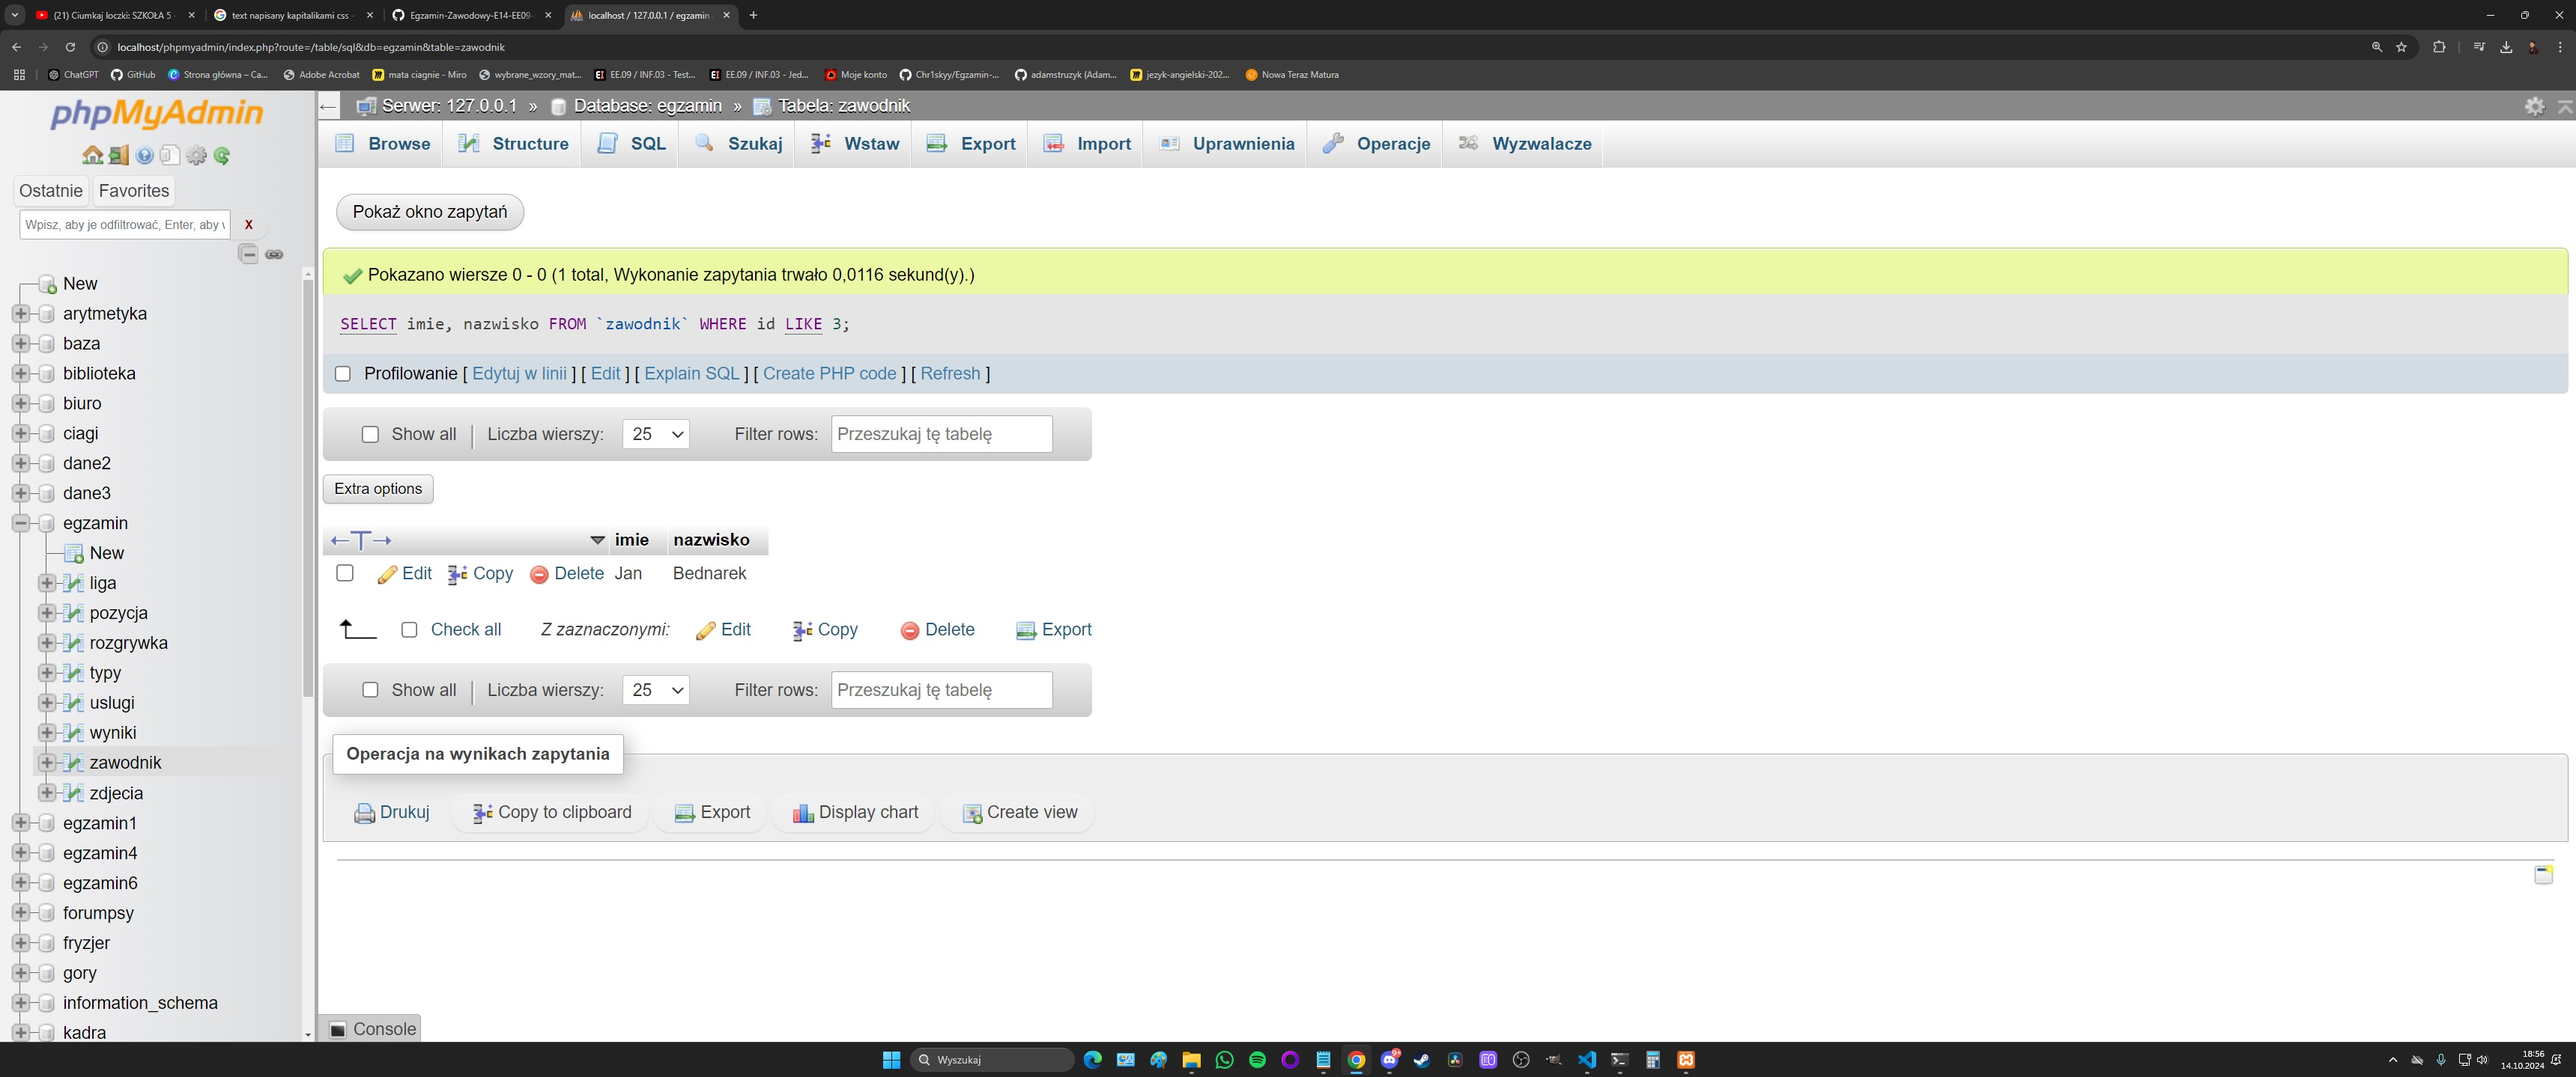
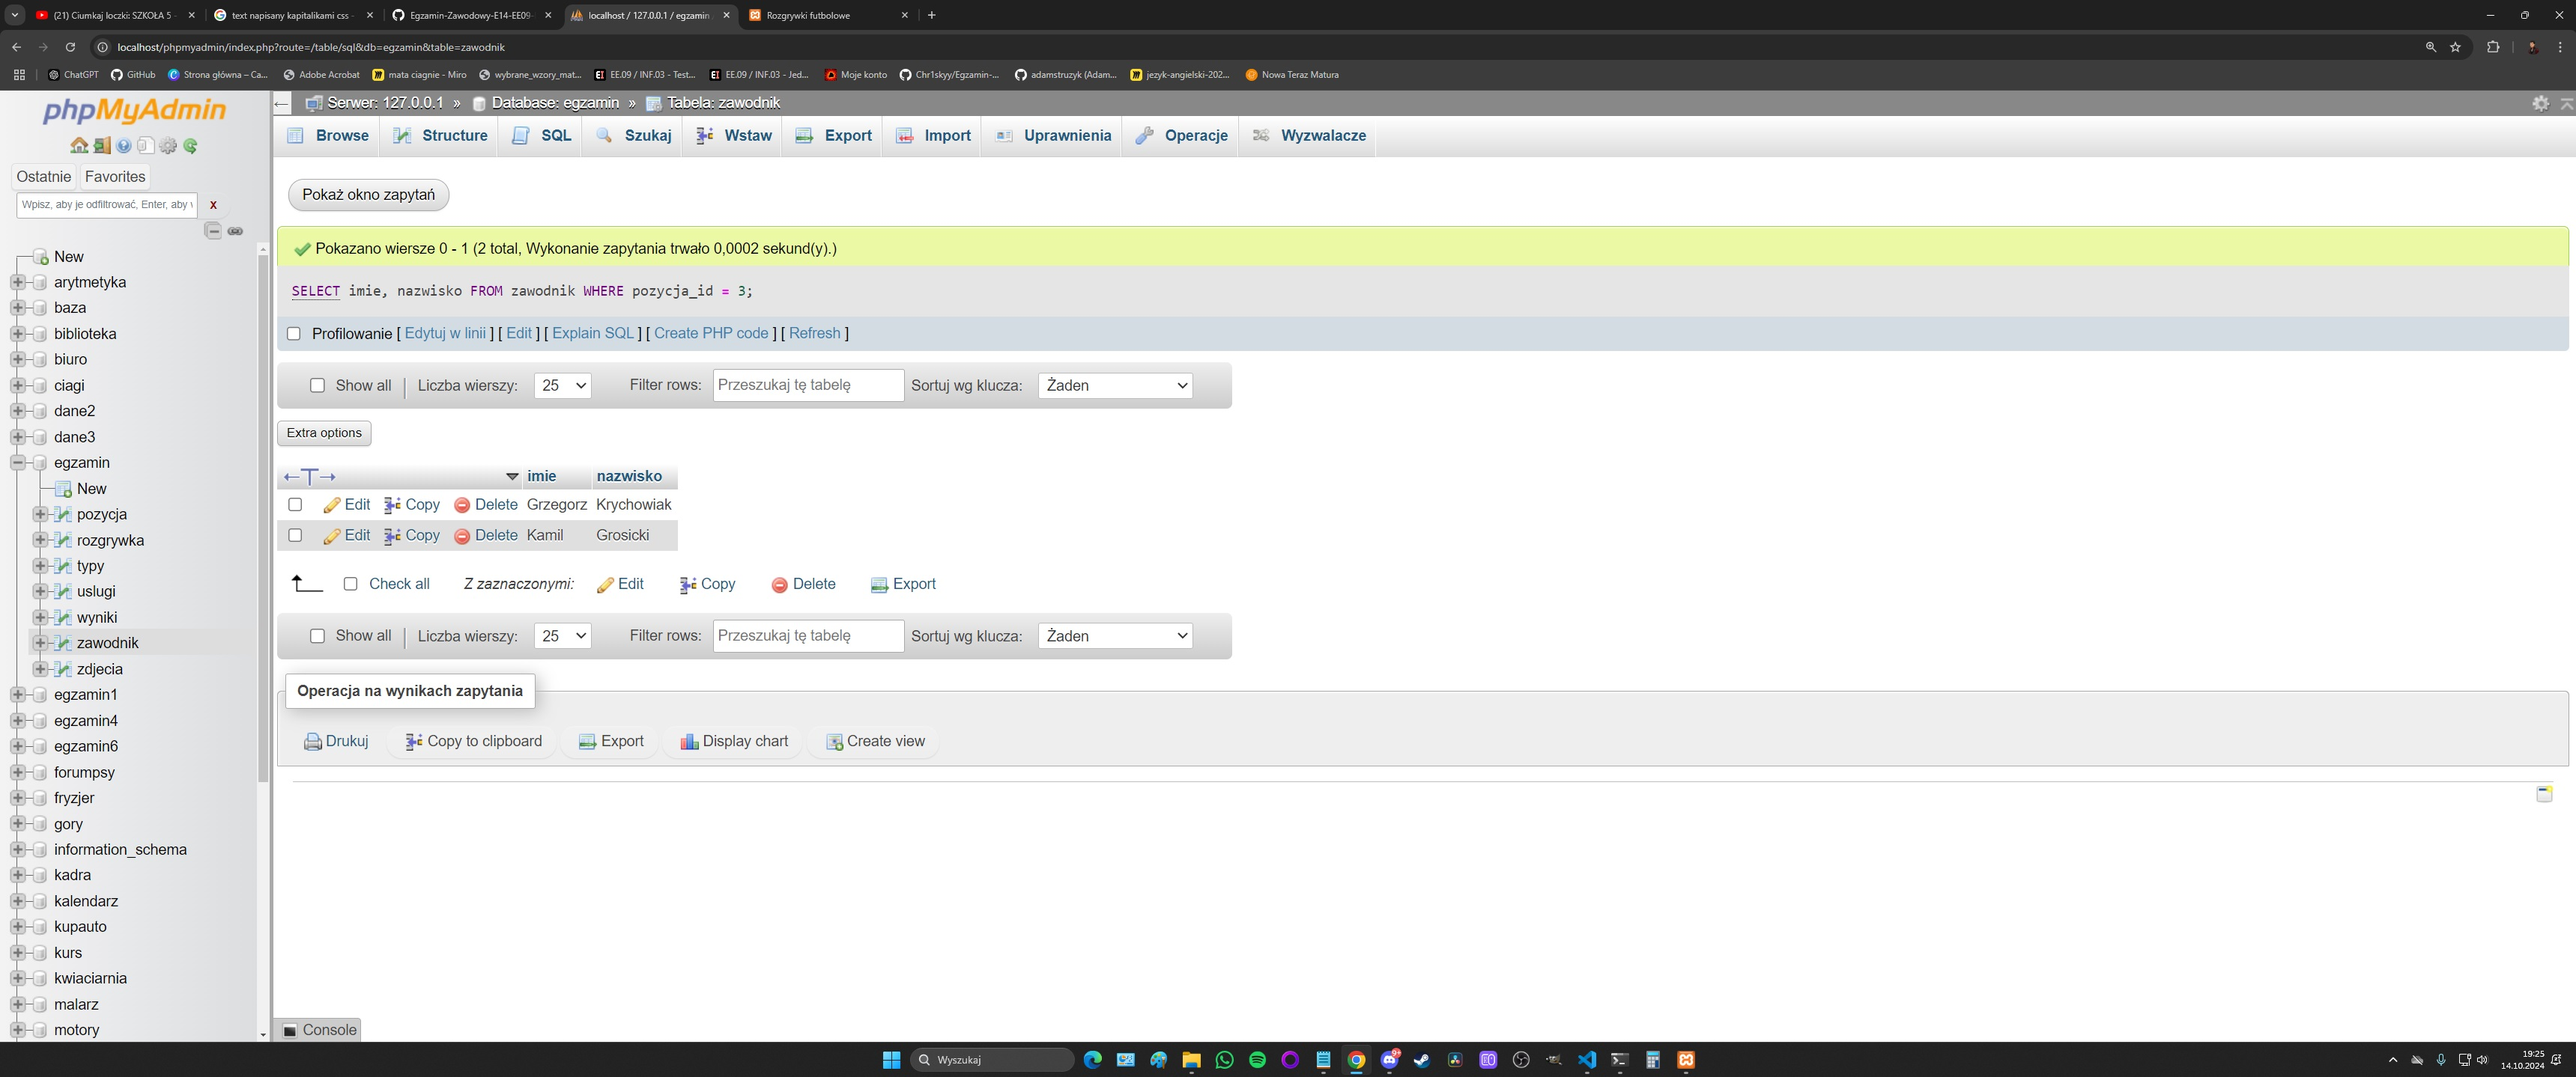
php

Changed region(s): [[0.0, 0.0612, 1.0, 0.9785], [0.9645, 0.795, 0.9956, 0.8256]]

diff --git a/julcia/ee09-2021-styczen-egzamin-zawodowy-praktyczny/rozwiazanie/futbol.php b/julcia/ee09-2021-styczen-egzamin-zawodowy-praktyczny/rozwiazanie/futbol.php
@@ -45,7 +45,7 @@
     <section id="lewy">
         <p>Podaj pozycję zawodników (1-bramkarze, 2-obrońcy, 3-pomocnicy, 4-napastnicy):</p>
         <form action="futbol.php" method="post">
-            <input type="number" name="" id="">
+            <input type="number" name="pole">
             <input type="submit" value="Sprawdź">
             <ul>
                 <!-- skrypt 2 -->
@@ -55,7 +55,19 @@
                         exit();
                     }
                     else{
+                        if(!empty($_POST['pole'])){
+                            $pole = $_POST['pole'];
+                            $zapytanie = "SELECT imie, nazwisko FROM zawodnik WHERE pozycja_id = $pole;";
+                            $odpowiedz = mysqli_query($polaczenie, $zapytanie);
+                            $text = " ";
+                            while($tablica = mysqli_fetch_array($odpowiedz)){
+                                $imie = $tablica['imie'];
+                                $nazwisko = $tablica['nazwisko'];
 
+                                $text .= "<li><p>$imie $nazwisko</p></li>";
+                            }
+                            echo $text;
+                        }
                     }
                     mysqli_close($polaczenie);
                 ?>
